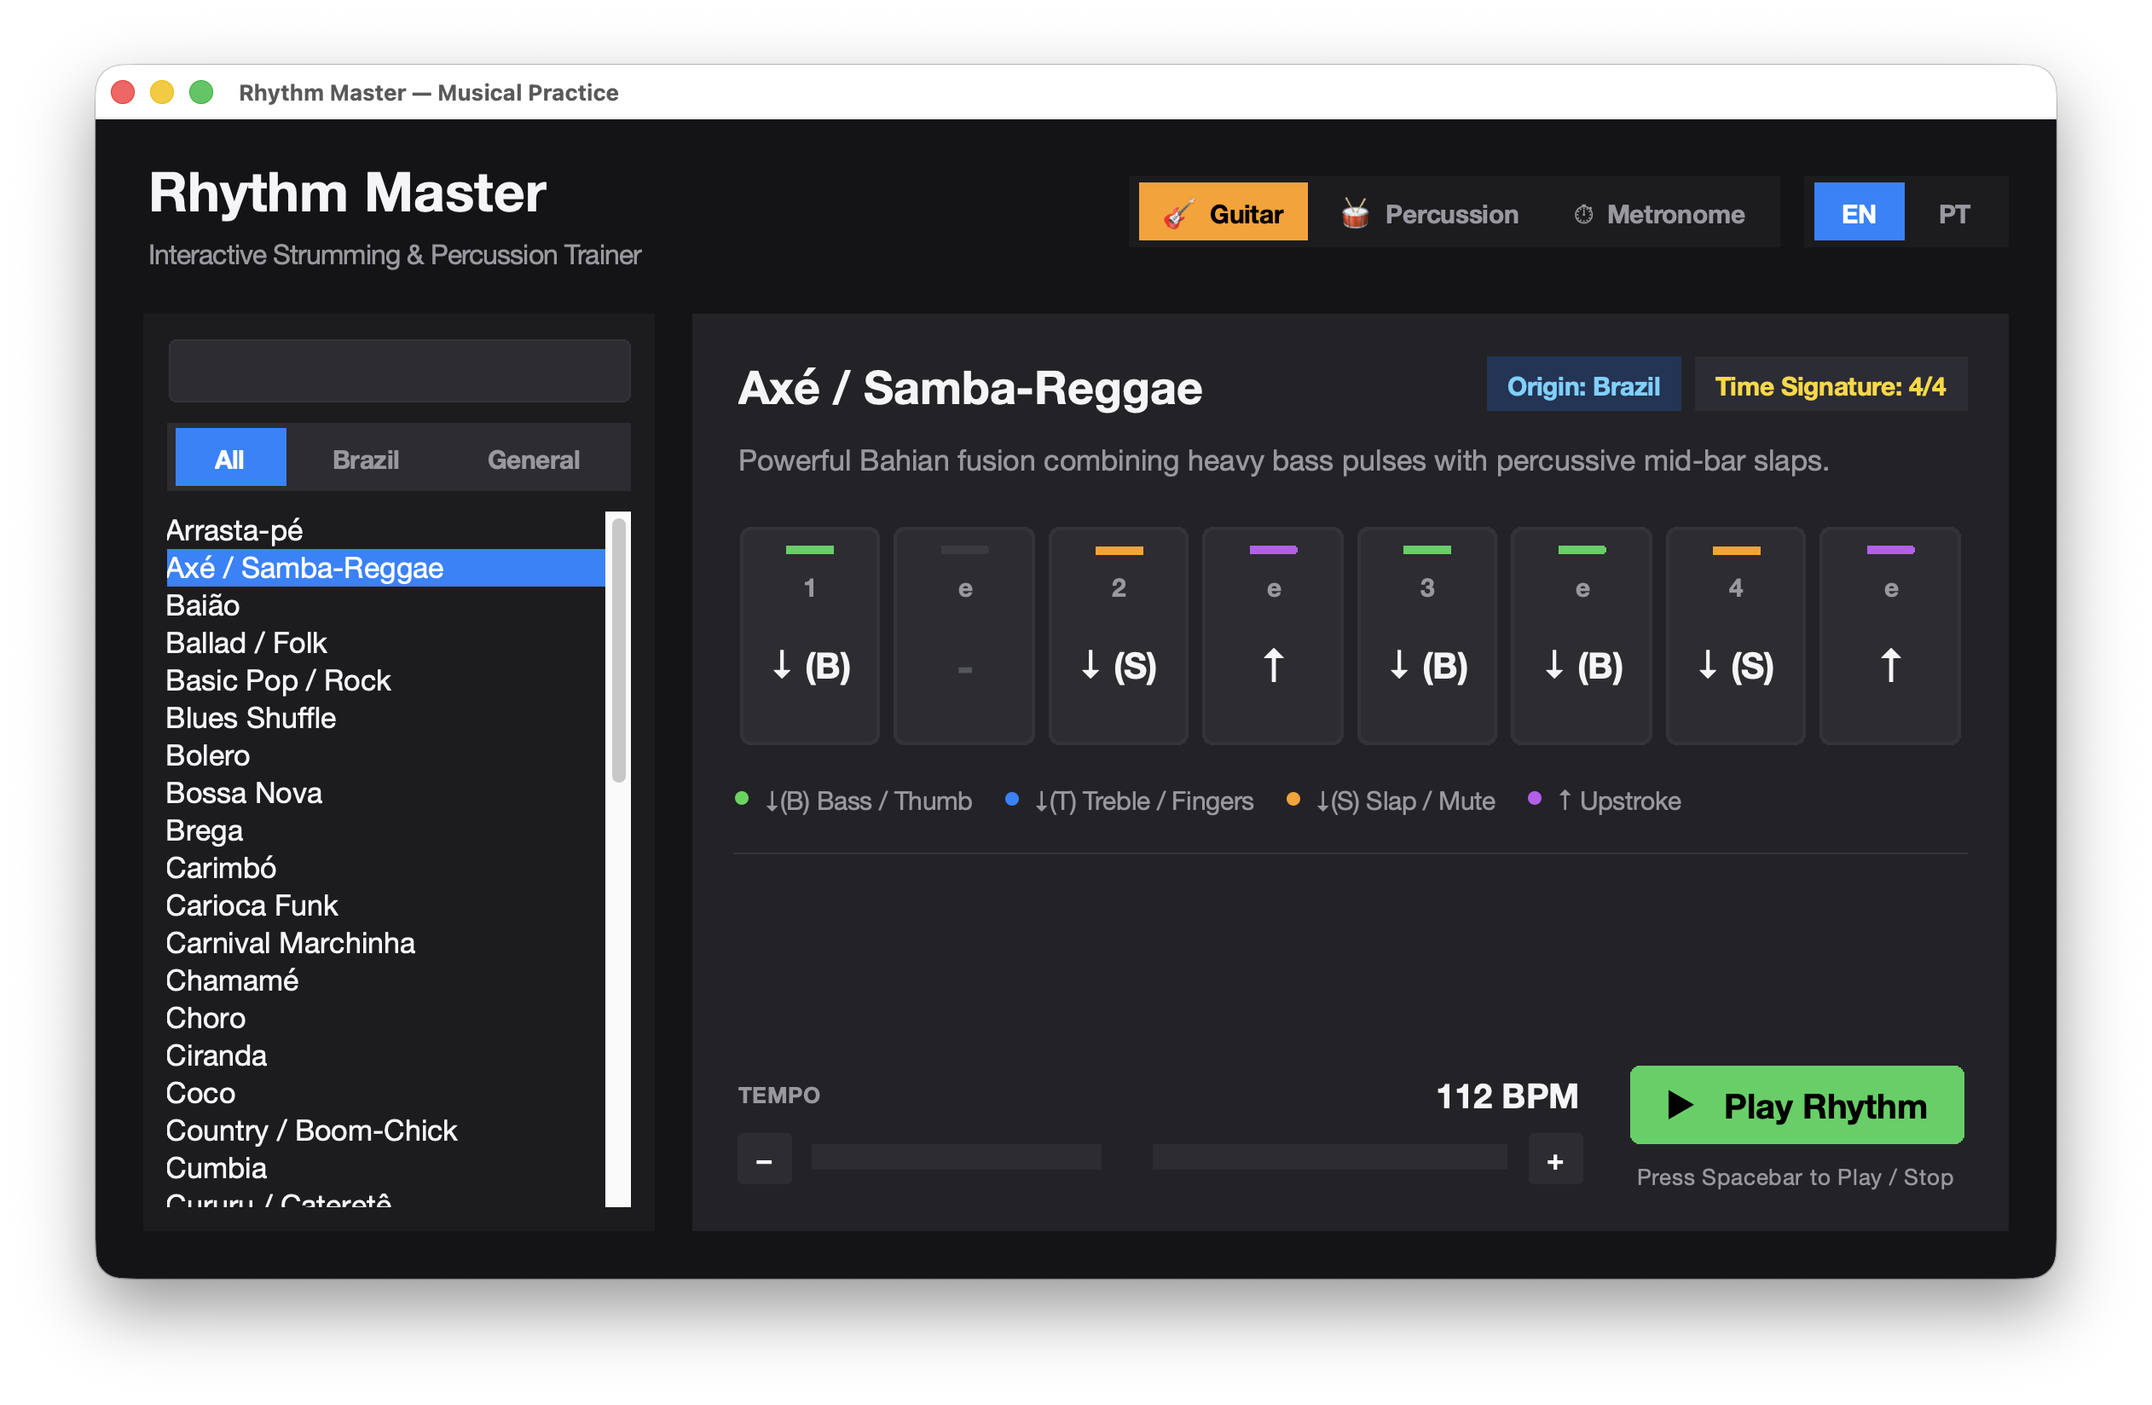
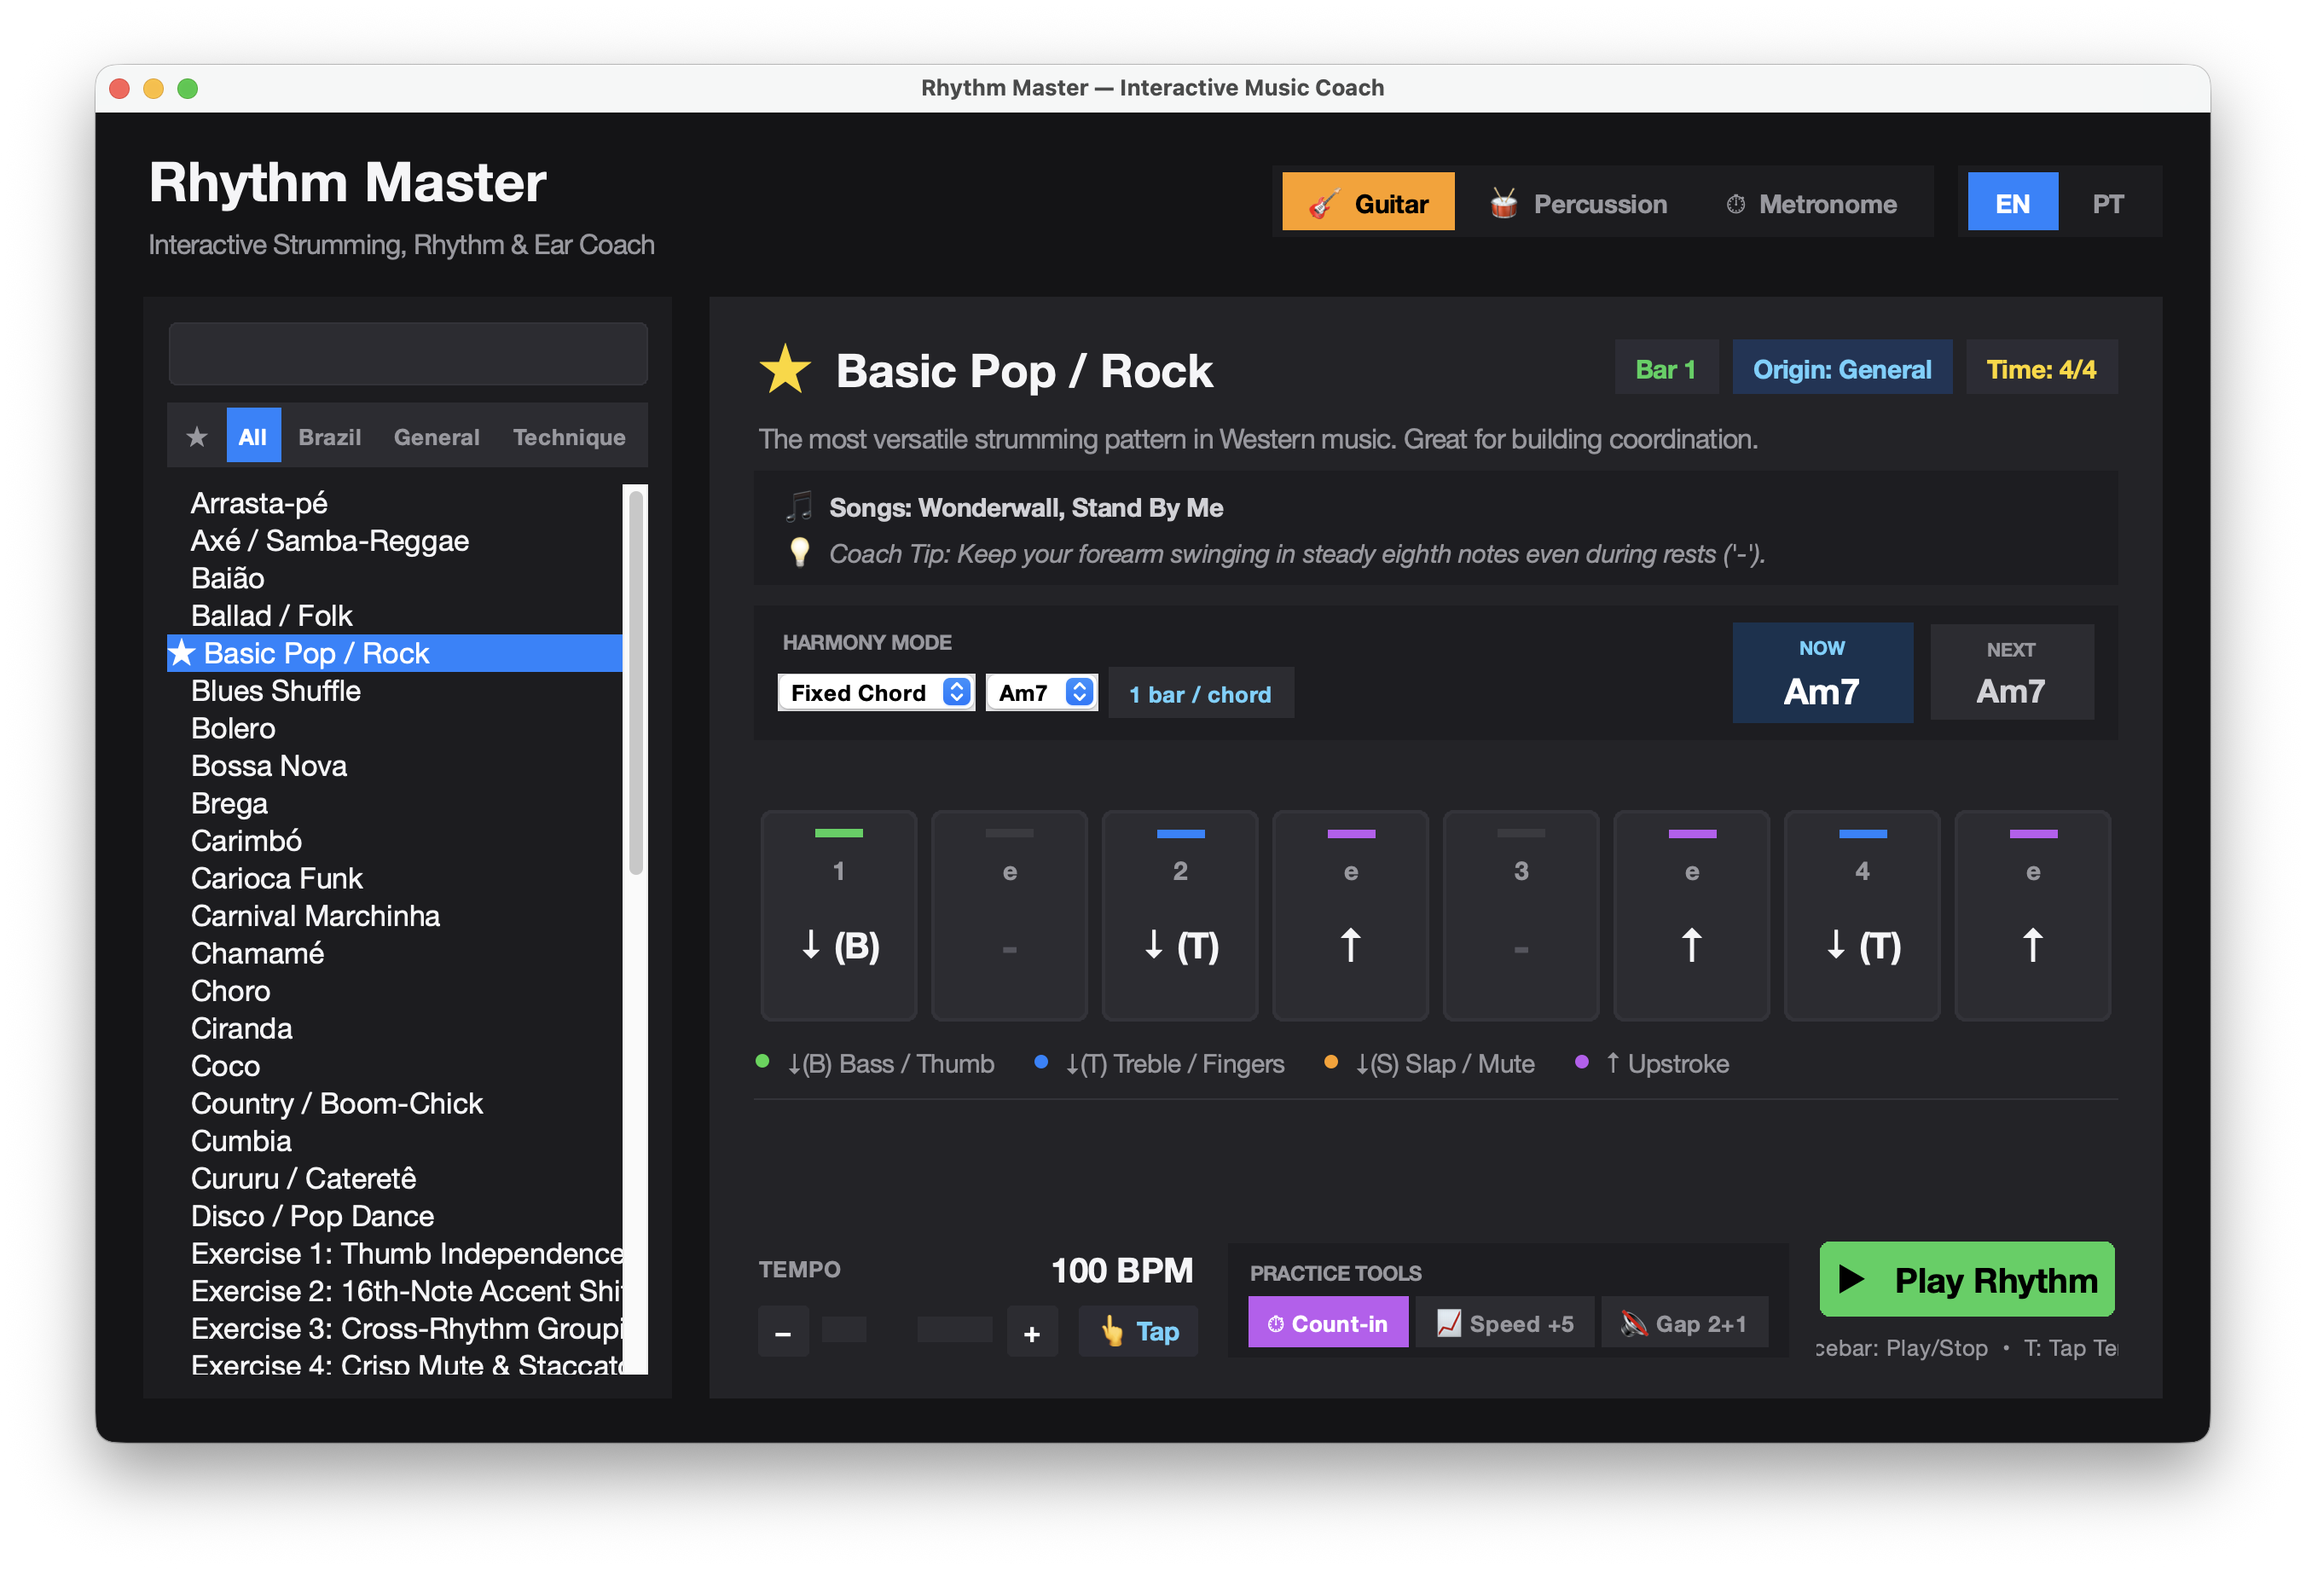
Update readme

diff --git a/README.md b/README.md
@@ -1,6 +1,6 @@
 # Rhythm Master — Interactive Strumming & Rhythm Trainer for macOS
 
-**Rhythm Master** is a native macOS desktop application built with Python and Tkinter to help guitarists and musicians practice strumming patterns, subdivisions, and rhythmic grooves—featuring a comprehensive library of **Brazilian rhythms** alongside essential international styles.
+**Rhythm Master** is a desktop application to help guitarists and musicians practice strumming patterns, subdivisions, and rhythmic grooves—featuring a comprehensive library of **Brazilian rhythms** alongside essential international styles.
 
 ![](screenshot-1.png)
 
@@ -8,23 +8,24 @@
 
 ## Features
 
-- **3 Switchable Audio Engines:**
-  - **Acoustic Guitar (Karplus-Strong Physical Modeling):** Synthesizes realistic plucked/strummed acoustic guitar strings in pure Python (Bass/Thumb, Treble/Fingers, Upstroke, and Palm Mute/Slap) with zero external audio files.
-  - **Percussion:** Synthesized kick, snare, hi-hat, and rim/slap grooves.
-  - **Metronome:** Crisp woodblock-style clicks marking main beats with an accented Beat 1.
-- **Zero-Latency Native macOS Audio:** Pre-loads synthesized WAV buffers into RAM via `AppKit.NSSound` (CoreAudio) with a round-robin voice pool and a drift-free monotonic clock (`time.perf_counter()`).
-- **Rich Rhythm Library (27+ Patterns):**
-  - **Brazilian Rhythms:** Traditional Samba, Bossa Nova, Partido Alto, Pagode, Baião, Xote, Arrasta-pé, Maracatu, Frevo, Ijexá, Axé / Samba-Reggae, Choro, Maxixe, Carimbó, Vanerão, Chamamé, Moda de Viola, Carioca Funk (Tamborzão), and Brega.
-  - **General / International:** Pop/Rock, Ballad/Folk, Waltz (3/4), Guarânia, Reggae (Offbeat), Blues Shuffle (12/8), Funk/Groove (16th-note syncopation), and Bolero.
-- **Bilingual UI (PT / EN):** Instant live switching between Portuguese and English, including locale-aware alphabetical sorting and real-time search.
-- **Responsive Visual Beat Grid:** Color-coded subdivision cards that scale dynamically and highlight in sync with the audio engine.
-- **Native `.app` Bundling:** Includes `py2app` configuration and a `Makefile` to build and install a standalone macOS `.app` bundle.
+- **Multiple Harmony Modes:**
+  - **Fixed Chord:** Freely choose any chord from the catalog to practice individual bars.
+  - **Major & Minor Progressions:** Select the harmonic field (tonic key) and structural format (e.g., *I - V - vi - IV* or *i - VI - III - VII*) automatically generated for you.
+  - **Music Genres:** Instantly switch between characteristic progressions for Pop/Rock, Bossa Nova, Samba, Baião, and Blues.
+- **Real-Time Karplus-Strong Synthesizer:** Acoustic guitar simulation powered by physical string modeling (featuring separated bass, treble, upstrokes, and muted slaps) alongside integrated percussion sounds.
+- **Flexible Harmonic Duration:** Easily toggle between **1 bar** or **2 bars** per chord (*ideal for fast rhythms like Baião and Frevo*).
+- **Tap Tempo Engine:** Automatically detect tempo (BPM) in real time by clicking the dedicated button or pressing the `T` key.
+- **Advanced Practice Modes:**
+  - **Count-in:** A 1-bar preparation count-in before playback begins.
+  - **Speed Trainer:** Automatically increases tempo by +5 BPM every 4 bars for speed training.
+  - **Gap Click:** Mutes 1 out of every 3 bars to test the musician's internal clock.
 
 ---
 
 ## Project Structure
 
     ├── main.py            # Main GUI, audio synthesizer engine, and precision metronome loop
+    ├── practice_data.py   # Data for practice options
     ├── rhythms_db.py      # Bilingual database of general and Brazilian rhythmic patterns
     ├── setup.py           # py2app configuration for macOS .app bundling
     ├── requirements.txt   # Packaging and macOS Cocoa framework dependencies
